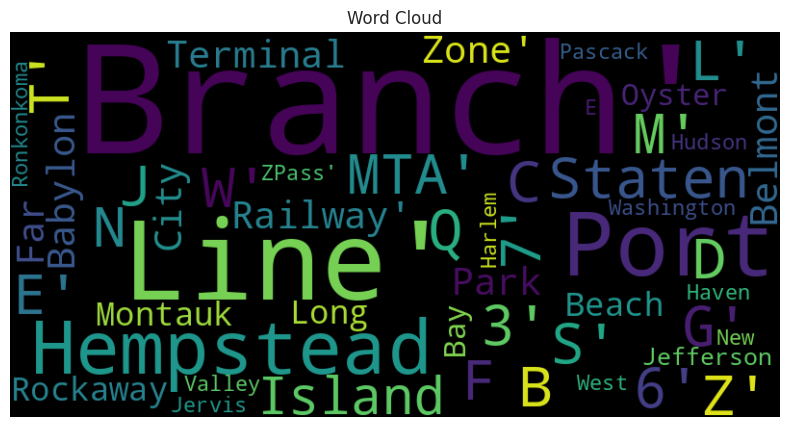
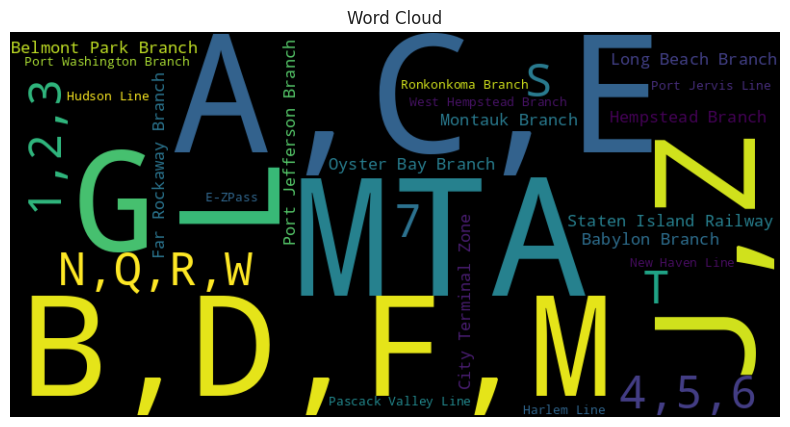
venn diagram demo

diff --git a/wc_demo.py b/wc_demo.py
@@ -2,6 +2,7 @@ import pandas as pd
 import matplotlib.pyplot as plt
 import seaborn as sns
 from wordcloud import WordCloud
+from collections import Counter
 
 sns.set_theme(style="ticks", palette="pastel")
 
@@ -15,16 +16,18 @@ print(df_colors.info())
 # format a series (column) from the dataframe to use
 wc_series = df_colors['Service']
 print(wc_series)
-service_list = str(wc_series.values)
+service_list = wc_series.values
 print(service_list)
-service_str = ' '.join(item for item in service_list.split())
-print(service_str)
+print(type(service_list))
+services = Counter(service_list)
+#service_str = ' '.join(item for item in service_list.split())
+#print(service_str)
 
 # .generate takes in a STRING like:
 sample_str = "penne fusilli rigatoni gnocchi spaghetti farfalle linguini bucatini lasagna stelline"
 
 # Create a wordcloud from that data
-wordcloud = WordCloud(width=800, height=400).generate(service_str)
+wordcloud = WordCloud(width=800, height=400).generate_from_frequencies(services)
 plt.figure(figsize=(10, 5))
 plt.imshow(wordcloud, interpolation='bilinear')
 plt.axis('off')  

diff --git a/venn_demo.py b/venn_demo.py
@@ -1,0 +1,28 @@
+from matplotlib_venn import venn2, venn2_circles
+import matplotlib.pyplot as plt
+
+# Sample Data (lists with duplicates)
+list_a = ['apple', 'banana', 'cherry', 'date', 'apple']
+list_b = ['banana', 'date', 'elderberry', 'fig']
+
+# Convert to sets for uniqueness
+set_a = set(list_a)  # {'apple', 'banana', 'cherry', 'date'}
+set_b = set(list_b)  # {'banana', 'date', 'elderberry', 'fig'}
+
+# Calculate intersections and differences for labels
+only_a = set_a - set_b # {'apple', 'cherry'}
+only_b = set_b - set_a # {'elderberry', 'fig'}
+both = set_a & set_b   # {'banana', 'date'}
+
+# Create the plot
+plt.figure(figsize=(8, 6))
+v = venn2([set_a, set_b], set_labels=('Set A', 'Set B'))
+
+# Add text for unique items
+v.get_label_by_id('10').set_text('\n'.join(only_a))
+v.get_label_by_id('01').set_text('\n'.join(only_b))
+v.get_label_by_id('11').set_text('\n'.join(both))
+
+# Add a title and display the plot
+plt.title("2-Set Venn Diagram")
+plt.savefig("venn.png", bbox_inches='tight')

diff --git a/tempCodeRunnerFile.py b/tempCodeRunnerFile.py
@@ -1,0 +1,1 @@
+collections
